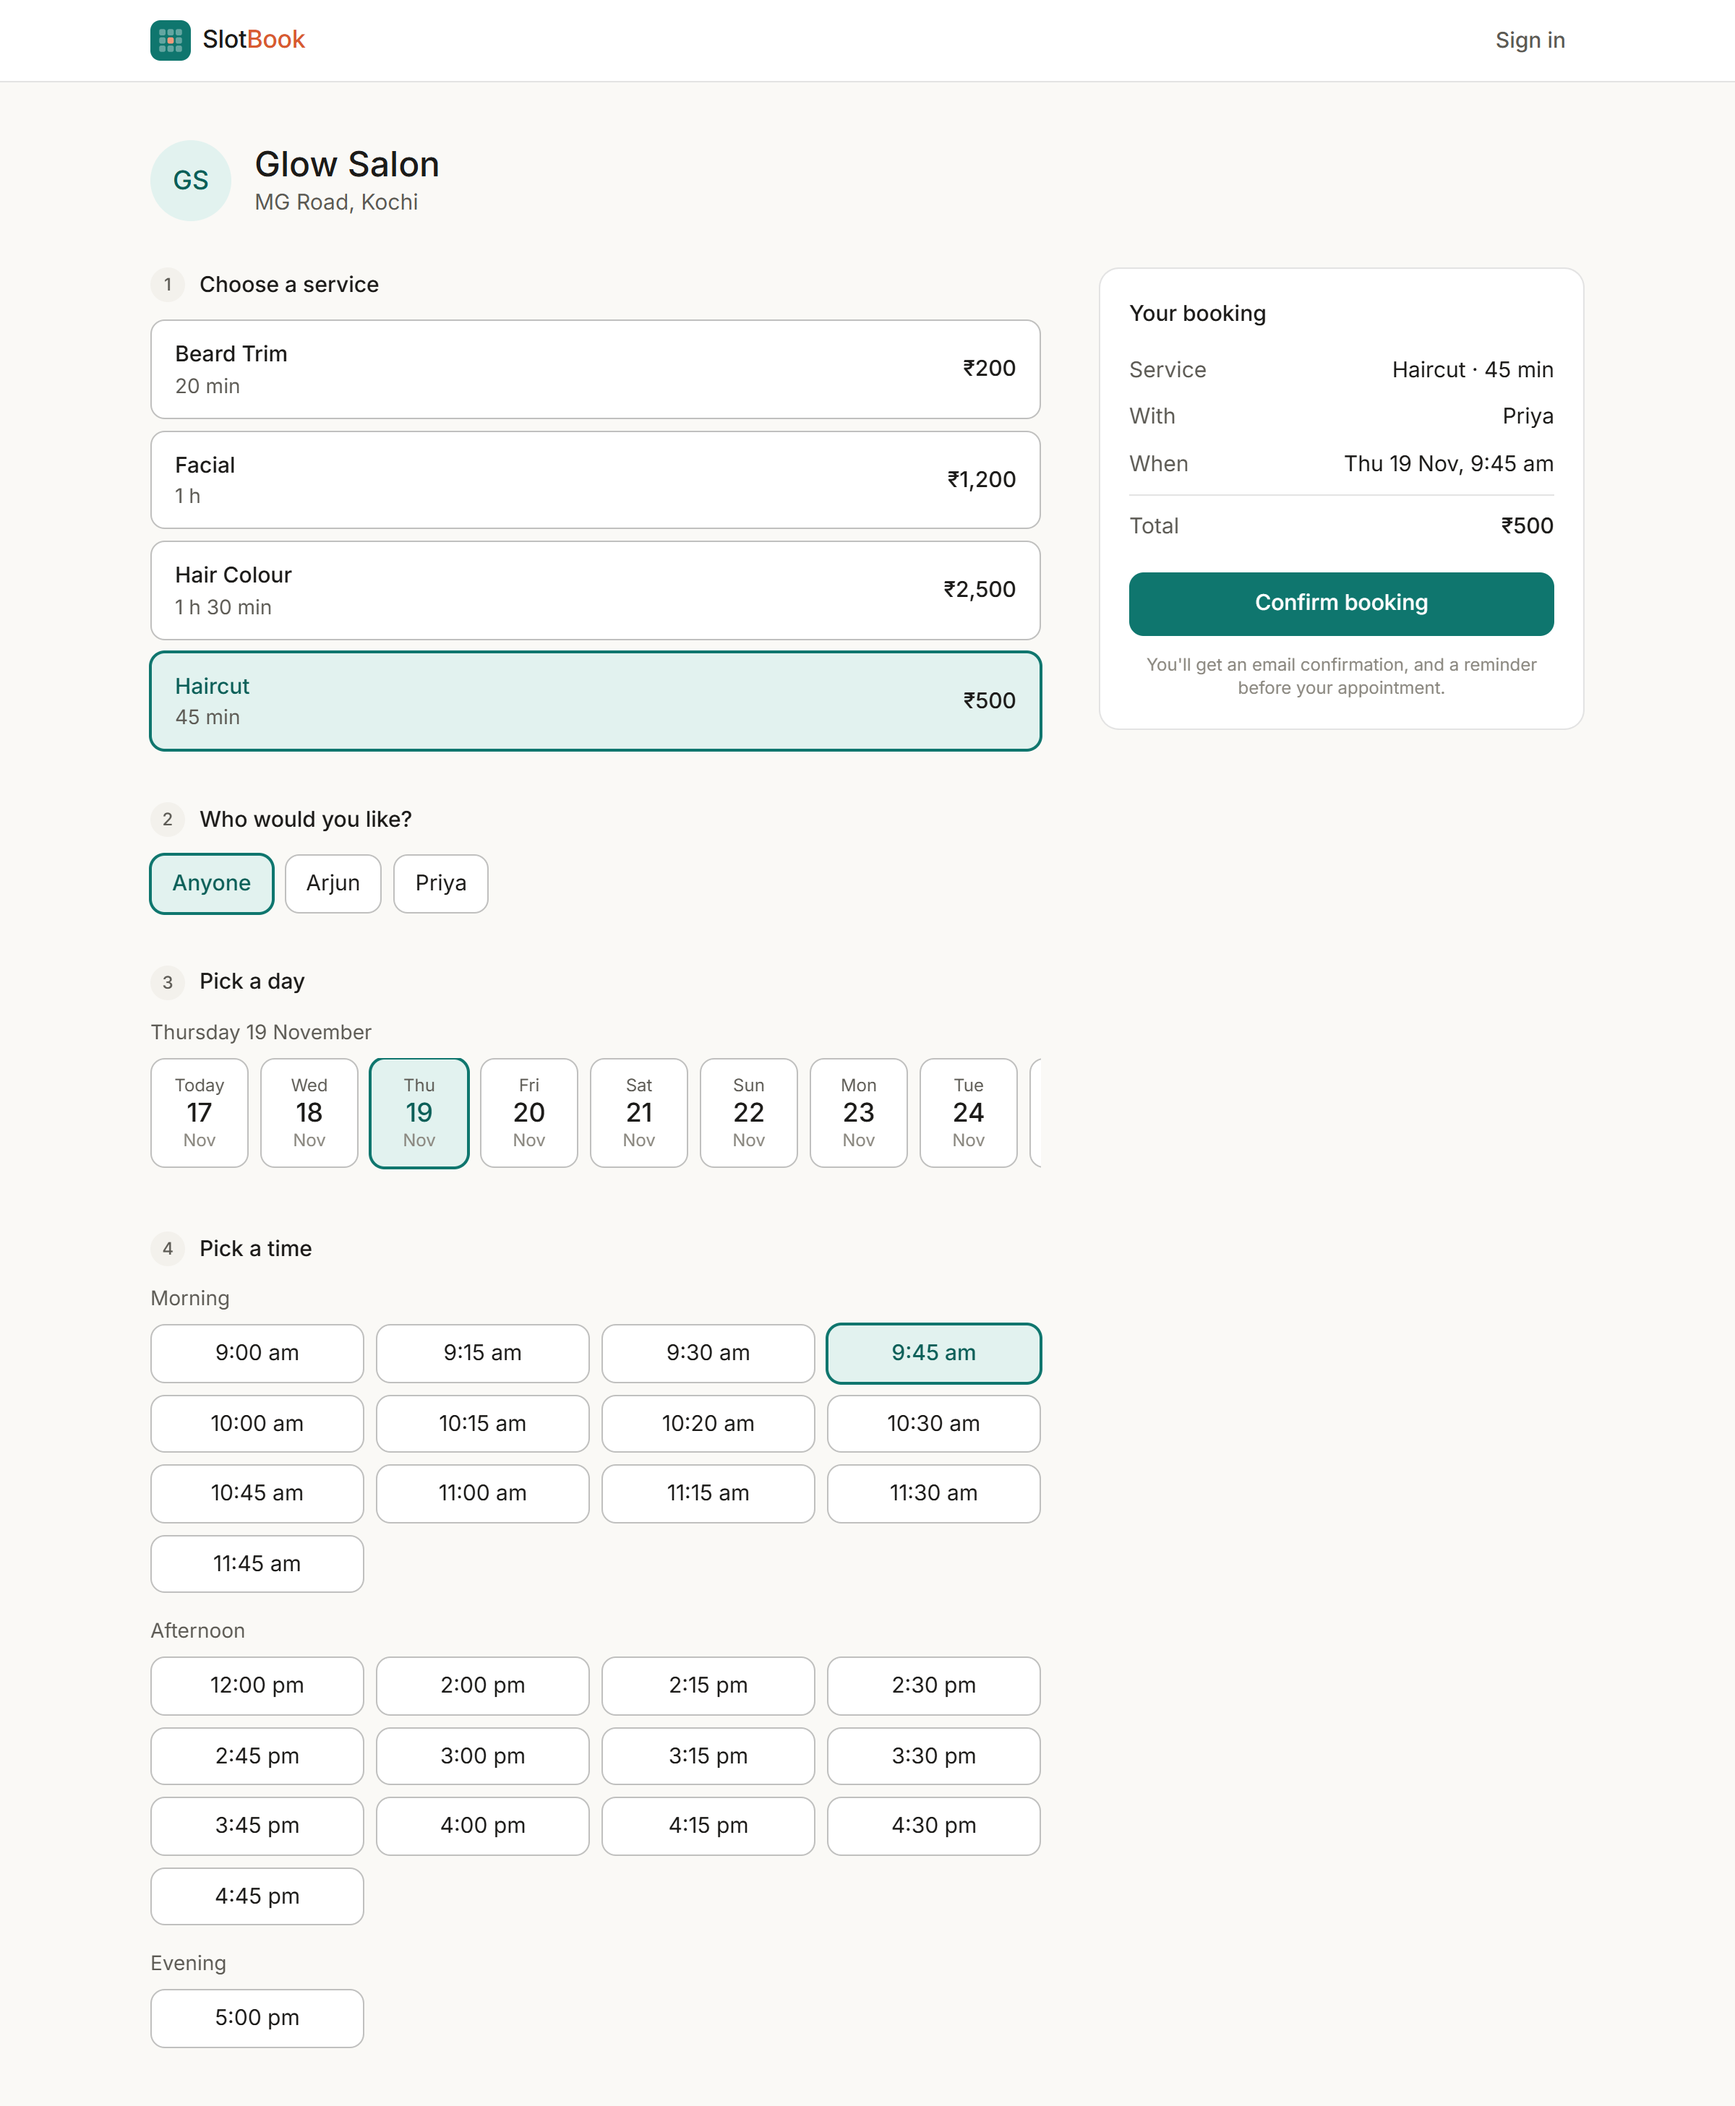
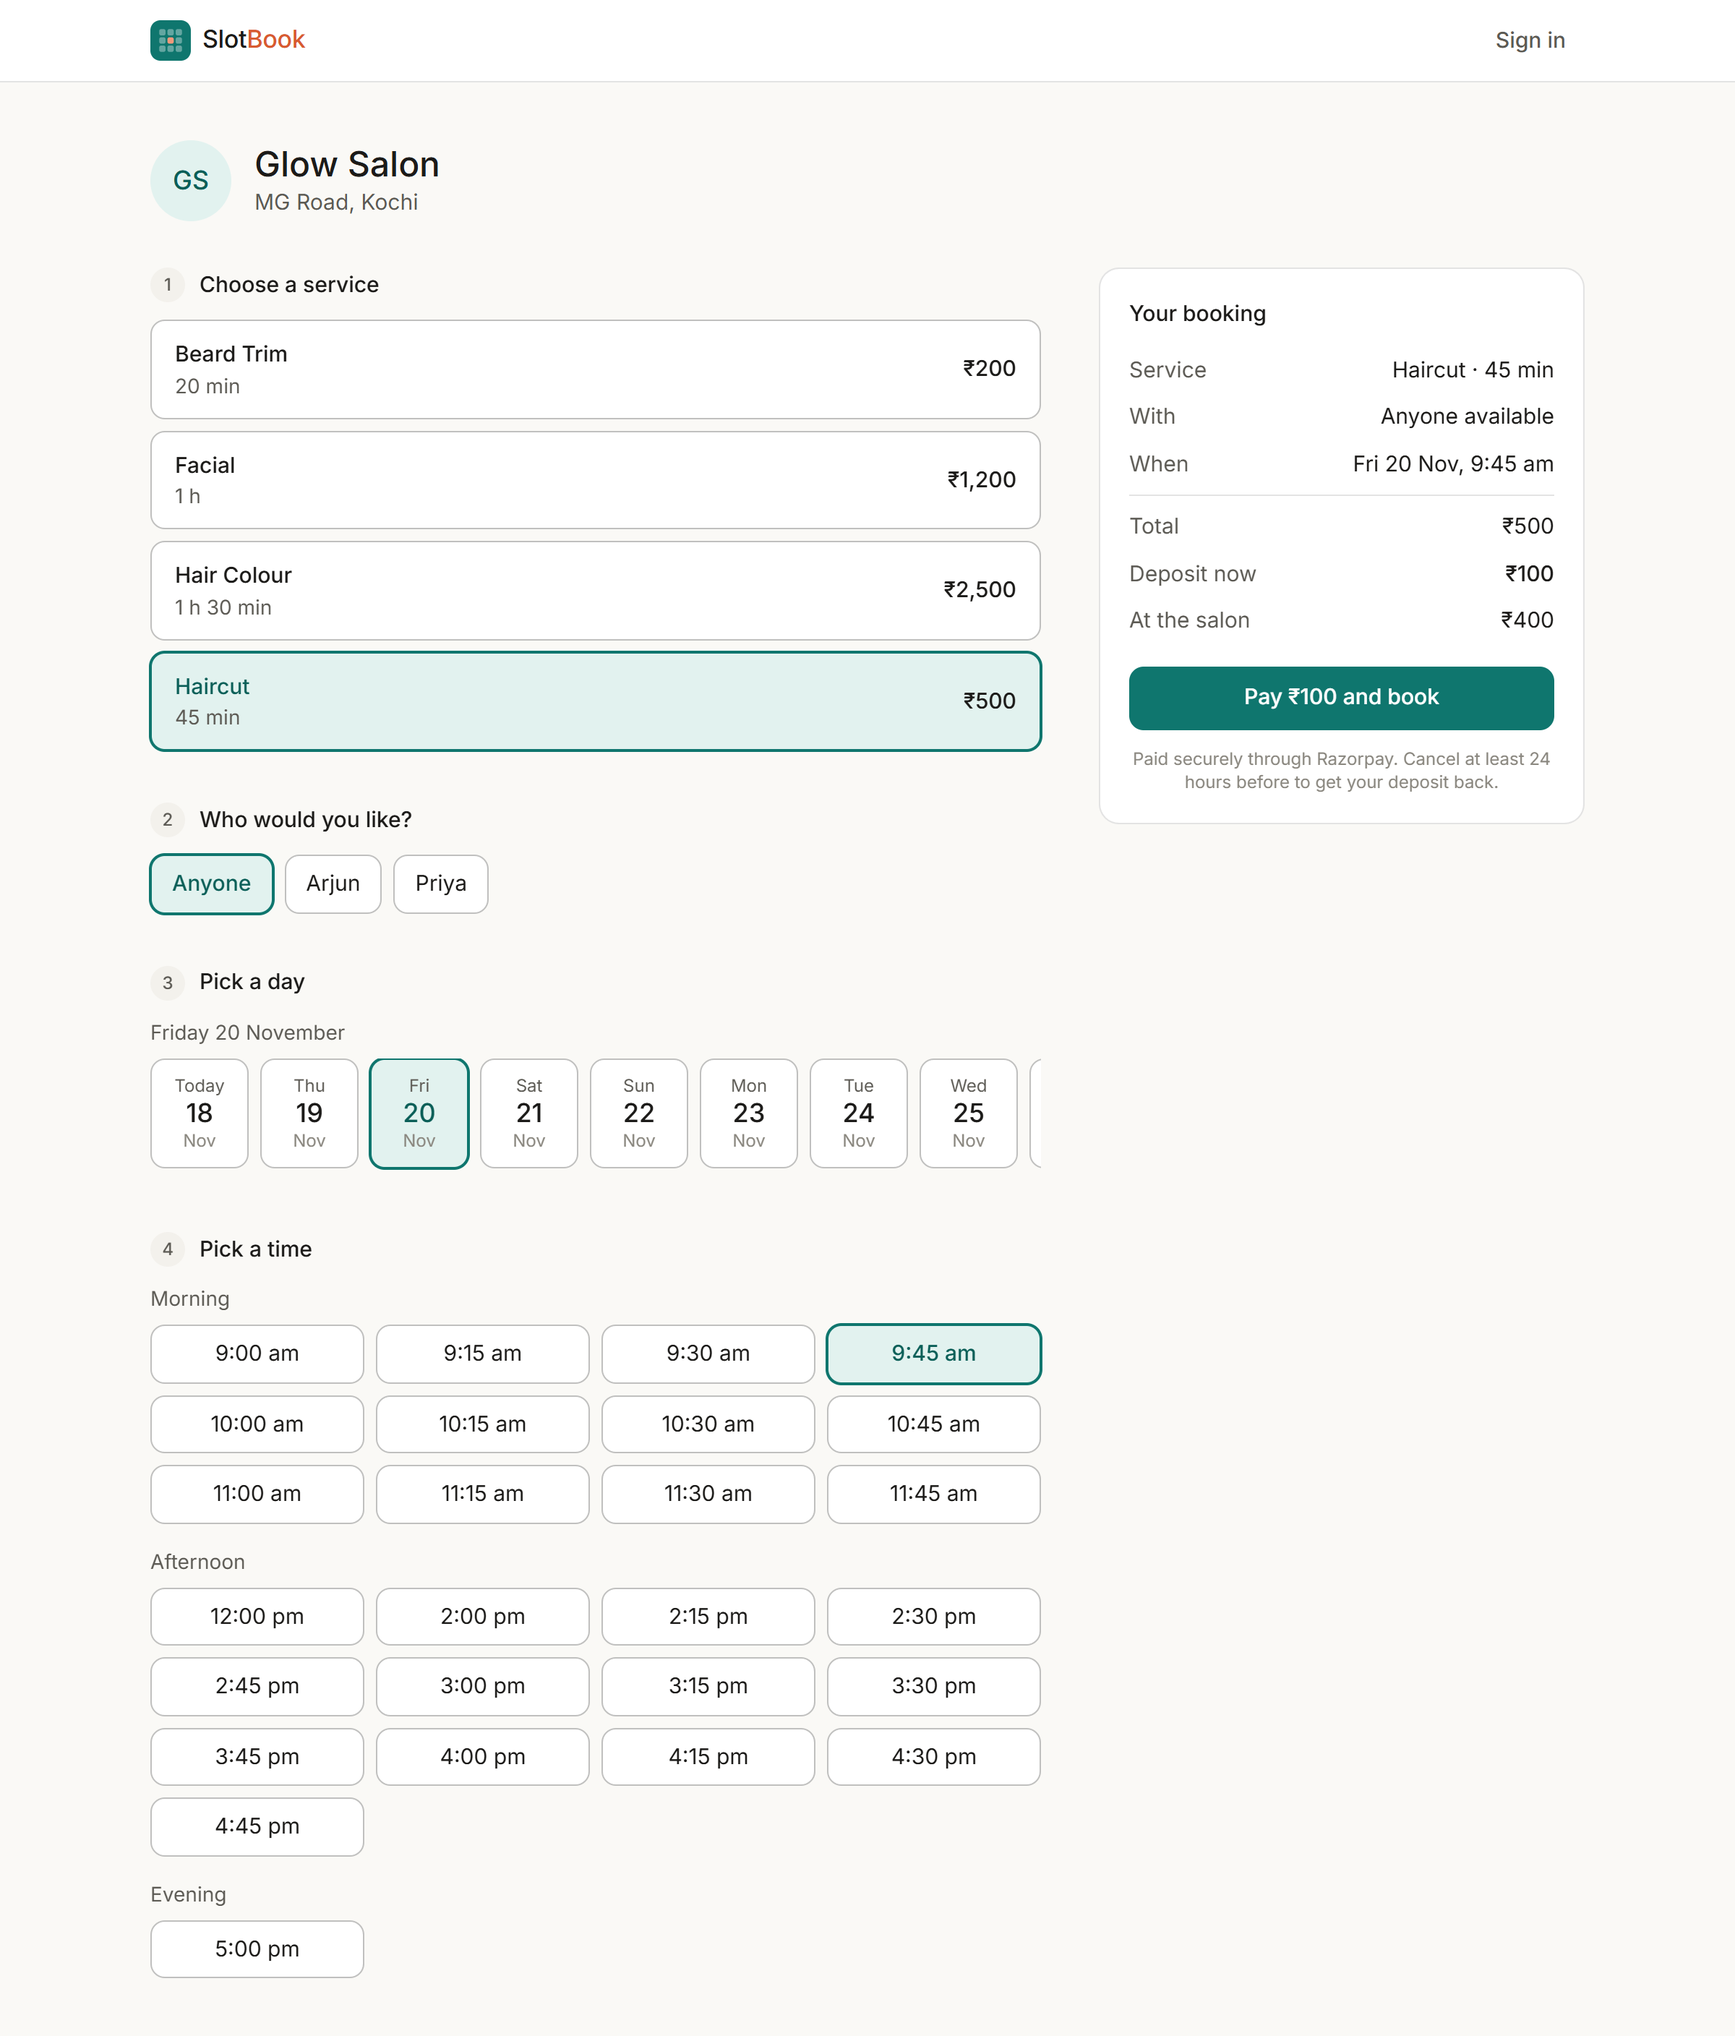
README: payment screenshots
The booking page screenshots are retaken to show the deposit split, and
new ones show the owner's Payments tab (light and dark) and My bookings
with a paid, a held and a refunded deposit. All sample data is
fictional: the owner and customer pages were captured with made-up API
answers, so no real booking or person appears.

diff --git a/README.md b/README.md
@@ -29,10 +29,10 @@ works. How it is deployed: [docs/DEPLOY.md](docs/DEPLOY.md).
 
 Taken from the running app, with fictional sample data. Everything follows the visitor's light or dark setting.
 
-**Customer booking page.** Built phone-first: choose a service, a person (or "anyone"), a day and a time. On a phone a confirm bar stays pinned to the bottom; on a desktop the summary sits beside the steps.
+**Customer booking page.** Built phone-first: choose a service, a person (or "anyone"), a day and a time. On a phone a confirm bar stays pinned to the bottom; on a desktop the summary sits beside the steps. When the salon takes a deposit, the summary splits the price into what's paid now and at the salon, and states the cancellation rule before anyone pays.
 
 <p align="center">
-  <img src="docs/screenshots/booking-desktop.png" alt="The booking page on a desktop: four services, a choice of staff, a day strip, open times grouped by morning, afternoon and evening, and a summary card with a Confirm booking button" width="480">
+  <img src="docs/screenshots/booking-desktop.png" alt="The booking page on a desktop: four services, a choice of staff, a day strip, open times grouped by morning, afternoon and evening, and a summary card showing a ₹500 total, ₹100 deposit now, ₹400 at the salon and a Pay ₹100 and book button" width="480">
   <img src="docs/screenshots/booking-mobile.png" alt="The booking page on a phone: day strip, grouped times and a pinned Confirm bar" width="215">
   <img src="docs/screenshots/booking-mobile-dark.png" alt="The same phone page in dark mode" width="215">
 </p>
@@ -58,8 +58,18 @@ Taken from the running app, with fictional sample data. Everything follows the v
 
 <img src="docs/screenshots/stats.png" alt="The stats dashboard: four number cards, a bookings-per-day bar chart, an outcomes breakdown and a top-services list" width="830">
 
+**Owner payments.** The salon sets its deposit and free-cancellation window (with a worked example from one of its own services), sees what SlotBook owes it, and every money movement behind that number: deposits, refunds, SlotBook's 10% commission on kept deposits, and payouts.
+
+<img src="docs/screenshots/payments.png" alt="The Payments tab: deposit settings at 20% with 24 hours free cancellation, cards for SlotBook owes you ₹740, deposits kept ₹1,080 and commission ₹34, and a list of deposits, a refund, commissions and a payout" width="830">
+
+**My bookings with deposits.** A paid booking shows its deposit; a held one shows when the hold ends and a button to pay; a booking cancelled in time shows the refund.
+
+<img src="docs/screenshots/my-bookings.png" alt="My bookings: a confirmed Facial with ₹240 deposit paid, a pending Haircut waiting for its ₹100 deposit with a Pay ₹100 deposit button, and a cancelled Hair Colour with ₹500 deposit refunded" width="830">
+
 <details>
 <summary>Dark mode</summary>
+
+<img src="docs/screenshots/payments-dark.png" alt="The Payments tab in dark mode" width="830">
 
 <img src="docs/screenshots/calendar-dark.png" alt="The weekly calendar in dark mode" width="830">
 
